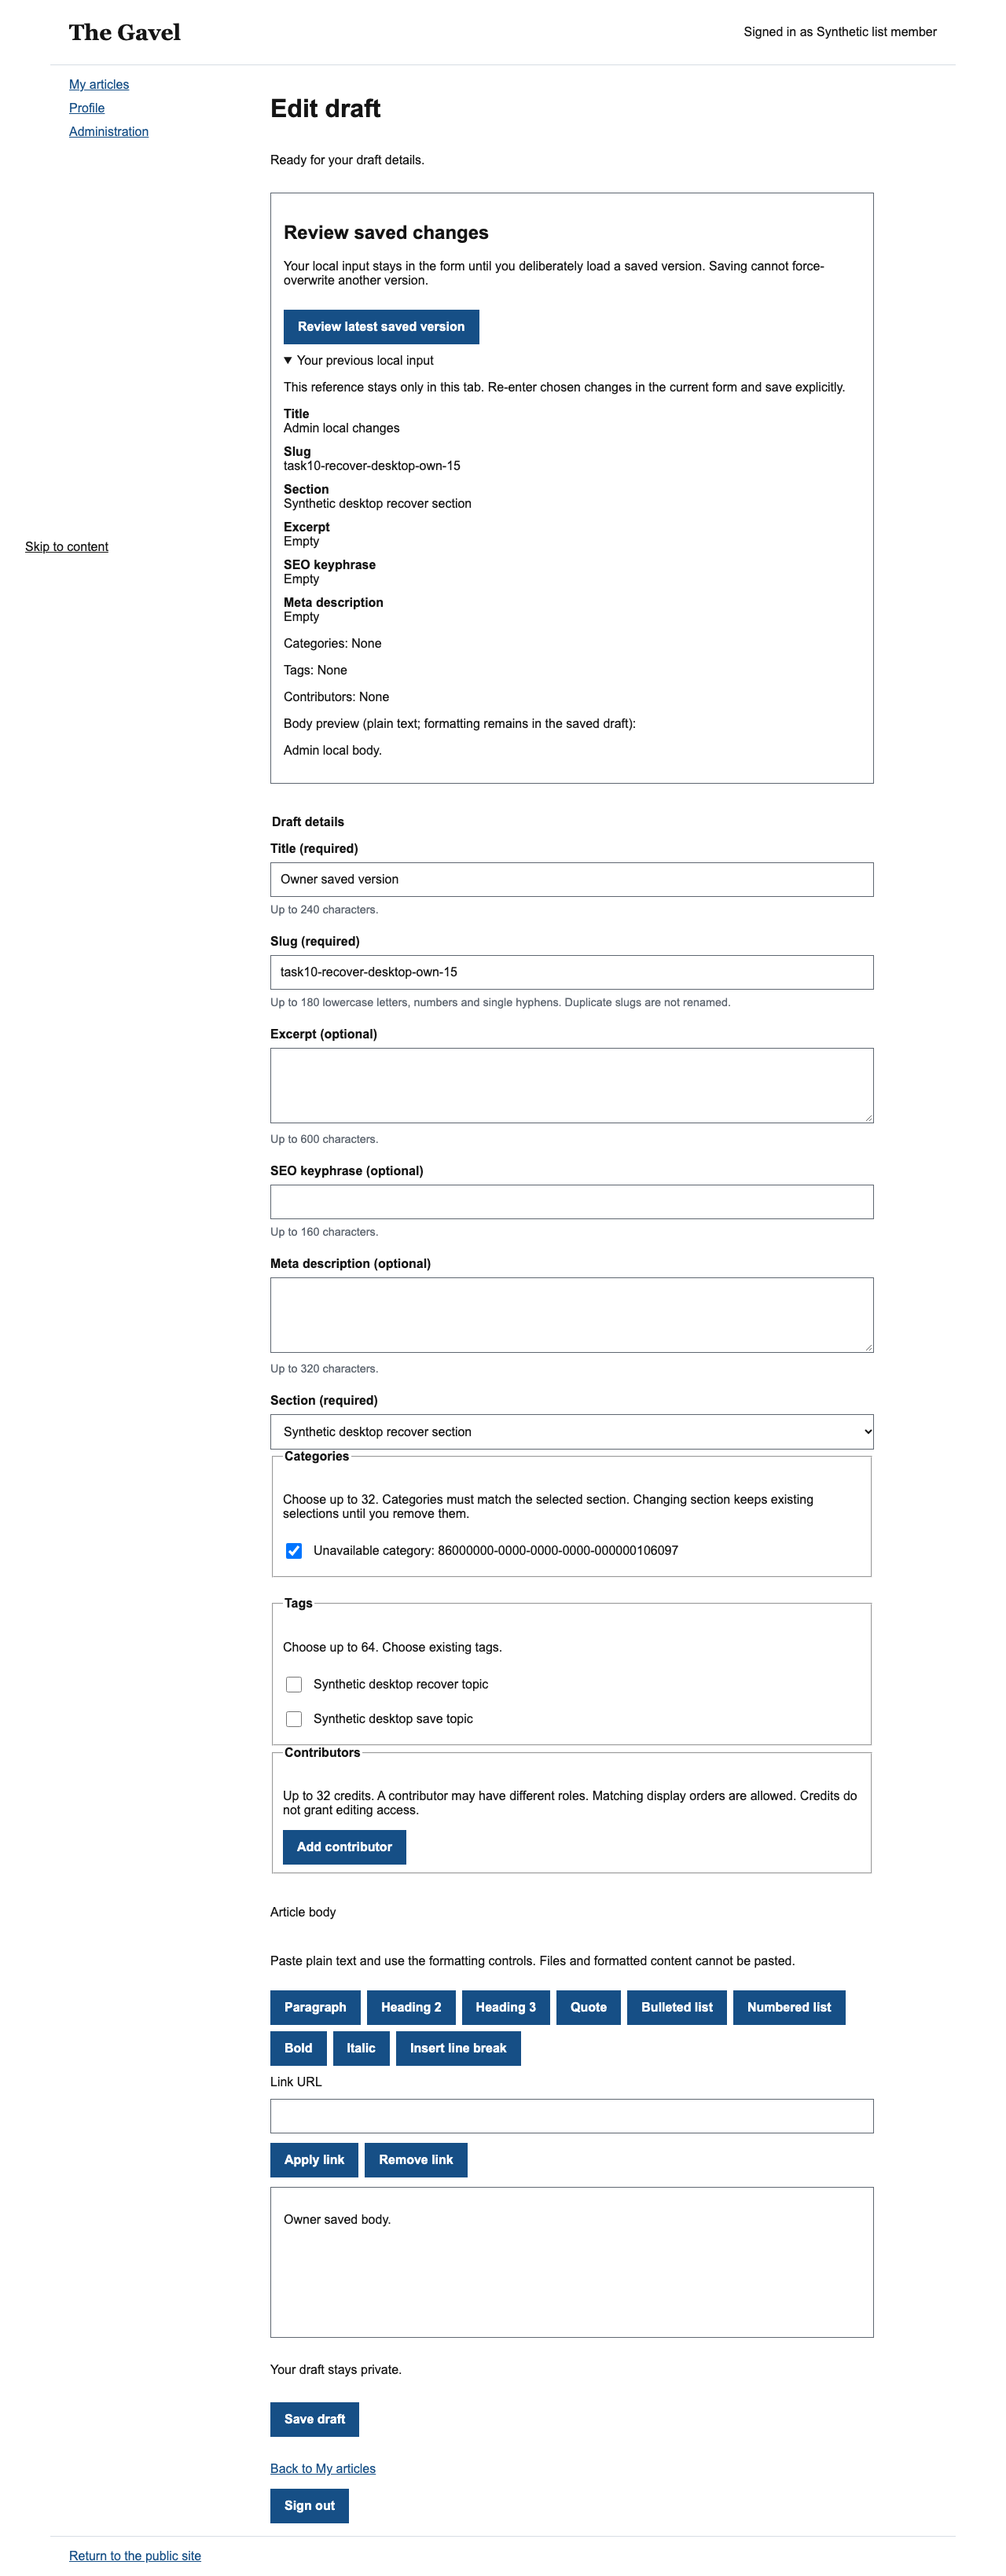
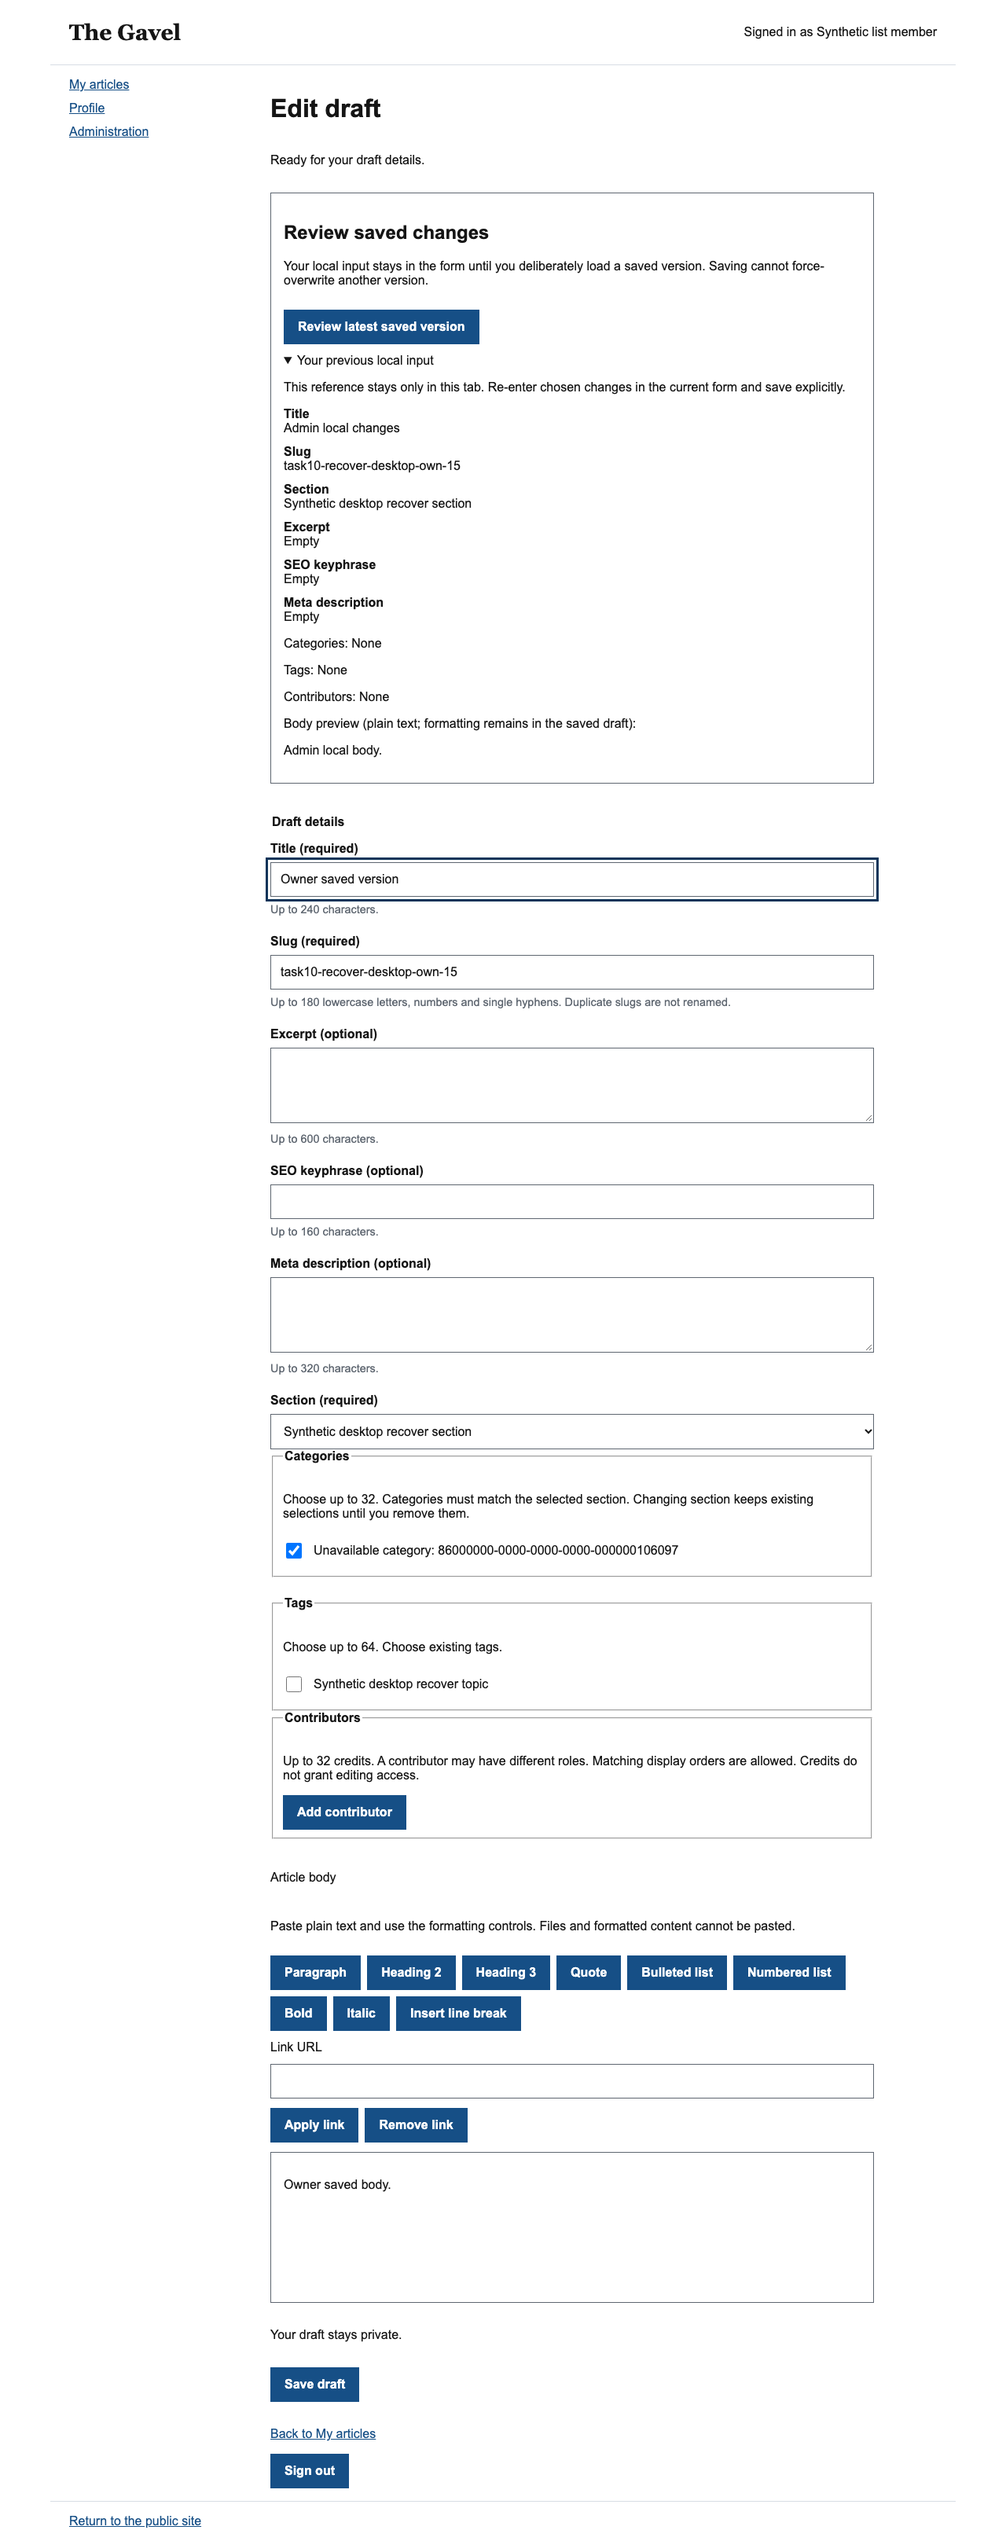
fix: restore keyboard focus after explicit draft reload

diff --git a/e2e/drafts/draft-conflict-recovery.spec.ts b/e2e/drafts/draft-conflict-recovery.spec.ts
@@ -77,6 +77,7 @@ test("independent owner and admin tabs review conflicts and deliberately adopt a
     await expect(admin.getByLabel("Title (required)")).toHaveValue(
       "Owner saved version",
     );
+    await expect(admin.getByLabel("Title (required)")).toBeFocused();
     await expect(
       admin.getByRole("textbox", { name: "Article body" }),
     ).toHaveText("Owner saved body.");
@@ -93,6 +94,7 @@ test("independent owner and admin tabs review conflicts and deliberately adopt a
         () => document.documentElement.scrollWidth <= window.innerWidth,
       ),
     ).toBe(true);
+    await admin.evaluate(() => window.scrollTo(0, 0));
     await admin.screenshot({
       path: `docs/reviews/assets/phase-3-task10-${info.project.name}.png`,
       fullPage: true,

diff --git a/src/components/dashboard/draft-form/draft-form.test.tsx b/src/components/dashboard/draft-form/draft-form.test.tsx
@@ -303,6 +303,7 @@ it("preserves conflict input until confirmed reload and then uses the reviewed v
     screen.getByRole("button", { name: "Load latest saved version" }),
   );
   expect(screen.getByLabelText(/Title/)).toHaveValue("Latest saved");
+  expect(screen.getByLabelText(/Title/)).toHaveFocus();
   expect(screen.getByText(`${baseDraft.title} local`)).toBeVisible();
   await userEvent.type(screen.getByLabelText(/Title/), " reconciled");
   await userEvent.click(screen.getByRole("button", { name: "Save draft" }));

diff --git a/src/components/dashboard/draft-form/draft-form.tsx b/src/components/dashboard/draft-form/draft-form.tsx
@@ -76,6 +76,9 @@ export function DraftForm({
     sectionId: initialDraft.sectionId,
     revision: 0,
   });
+  useEffect(() => {
+    if (catalog.revision > 0) document.getElementById("draft-title")?.focus();
+  }, [catalog.revision]);
   const [recoveryVisible, setRecoveryVisible] = useState(false);
   const [recoveryBlocked, setRecoveryBlocked] = useState(false);
   const categories = useDraftCategories(
